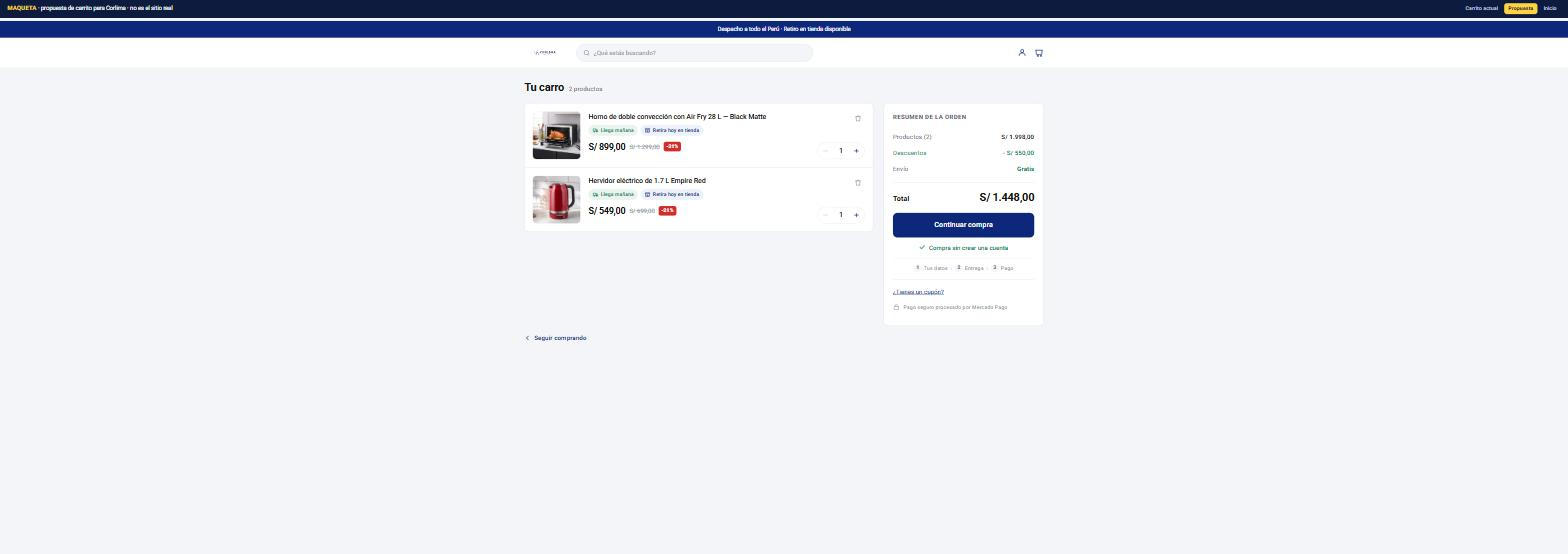
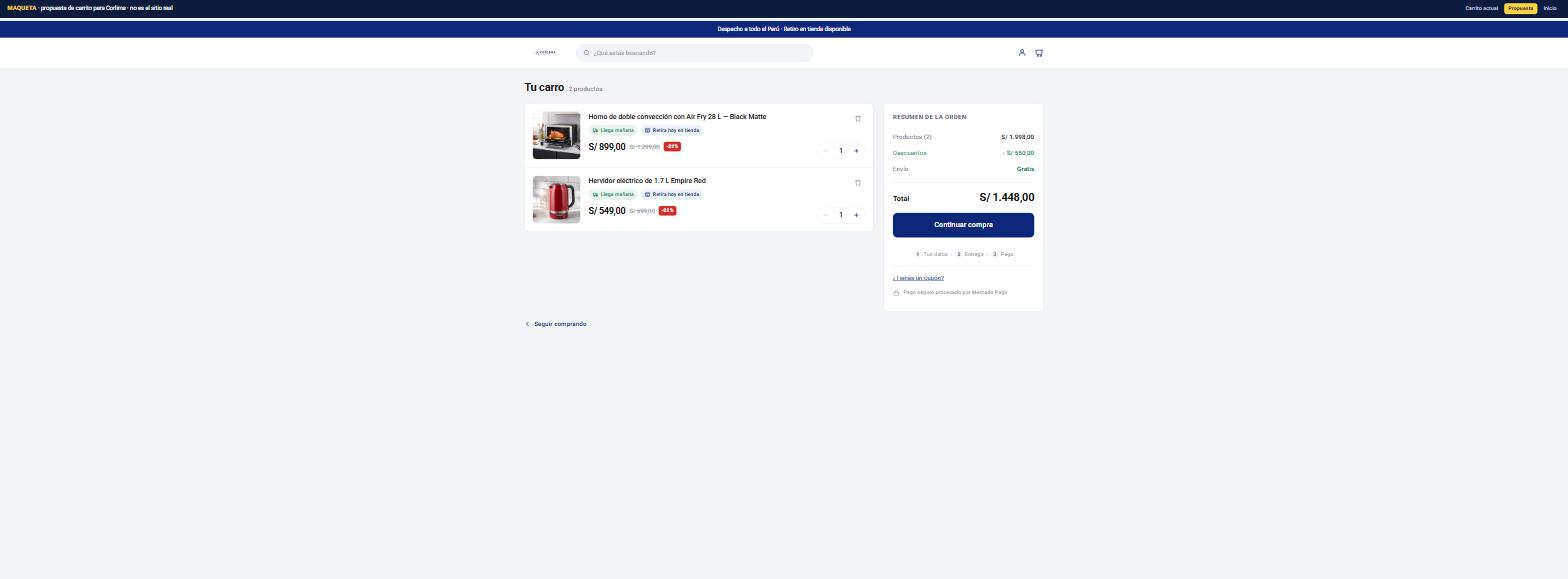
Quitar el aviso de "compra sin crear una cuenta" del carrito
Anunciarlo instala la idea de que registrarse era una opcion. Si el flujo no
pide cuenta, no hace falta decirlo: el silencio comunica mejor que la promesa.

Claude-Session: https://claude.ai/code/session_018hzZJMeHUaFZdU6yMEucUV

diff --git a/maqueta/carrito.html b/maqueta/carrito.html
@@ -104,10 +104,7 @@ a{color:var(--azul)}
 .cta:hover{background:var(--azul-hover)}
 
 /* firma: el camino corto */
-.sinCuenta{display:flex;align-items:center;justify-content:center;gap:7px;margin-top:12px;
-  font-size:13.5px;font-weight:500;color:var(--verde)}
-.sinCuenta svg{width:15px;height:15px;flex:none}
-.pasos{display:flex;align-items:center;gap:6px;margin-top:10px;padding-top:12px;border-top:1px dashed var(--linea);
+.pasos{display:flex;align-items:center;gap:6px;margin-top:14px;padding-top:13px;border-top:1px dashed var(--linea);
   font-size:12px;color:var(--gris-suave);justify-content:center;flex-wrap:wrap}
 .pasos i{font-style:normal;display:inline-flex;align-items:center;gap:5px}
 .pasos u{text-decoration:none;width:17px;height:17px;border-radius:50%;background:var(--fondo);
@@ -153,7 +150,6 @@ a{color:var(--azul)}
   .cols{grid-template-columns:1fr}
   .resumen{position:static}
   .resumen #ctaDesk{display:none}
-  .resumen .sinCuenta{margin-top:14px}
   .movil{display:flex}
   .wrap{padding-bottom:96px}
 }
@@ -211,10 +207,6 @@ a{color:var(--azul)}
 
       <a class="cta" href="#" id="ctaDesk">Continuar compra</a>
 
-      <p class="sinCuenta">
-        <svg viewBox="0 0 24 24" fill="none" stroke="currentColor" stroke-width="2.4"><path d="M20 6L9 17l-5-5"/></svg>
-        Compra sin crear una cuenta
-      </p>
       <div class="pasos">
         <i><u>1</u> Tus datos</i><span class="sep">›</span>
         <i><u>2</u> Entrega</i><span class="sep">›</span>

diff --git a/index.html b/index.html
@@ -91,7 +91,7 @@
   <div class="grid">
     <a class="paso" href="maqueta/carrito.html">
       <div class="thumb" style="background-image:url(docs/img/maqueta-carrito.jpg)"></div>
-      <div class="txt"><span class="n">Nuevo</span><div class="t">Carrito rediseñado</div><div class="d">Compra sin cuenta, resumen fijo y barra de total en celular.</div></div>
+      <div class="txt"><span class="n">Nuevo</span><div class="t">Carrito rediseñado</div><div class="d">Resumen fijo, cantidades en vivo y barra de total en celular.</div></div>
     </a>
   </div>
 
